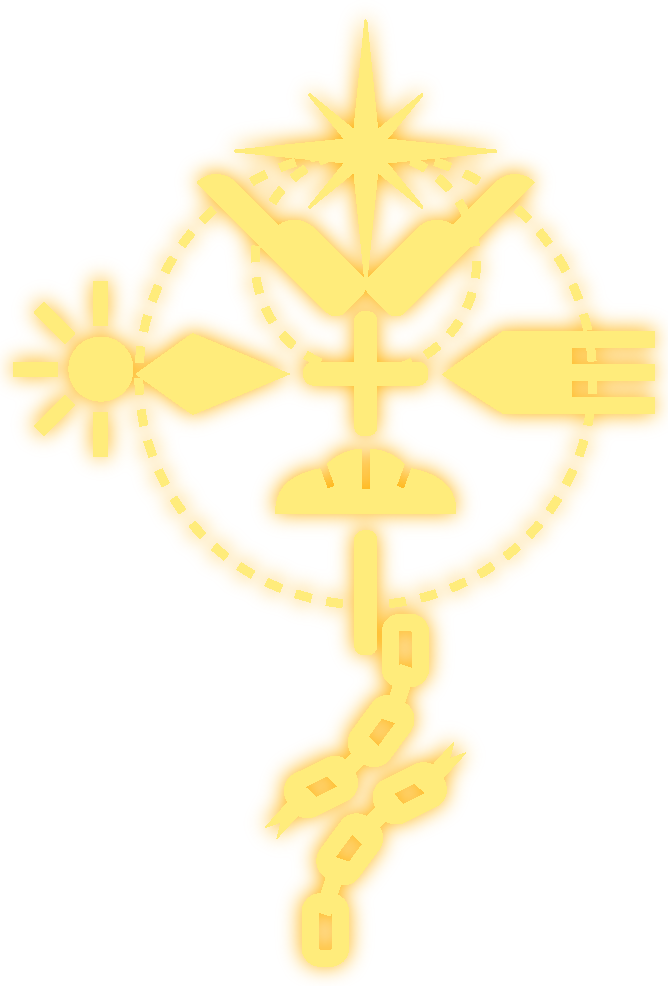
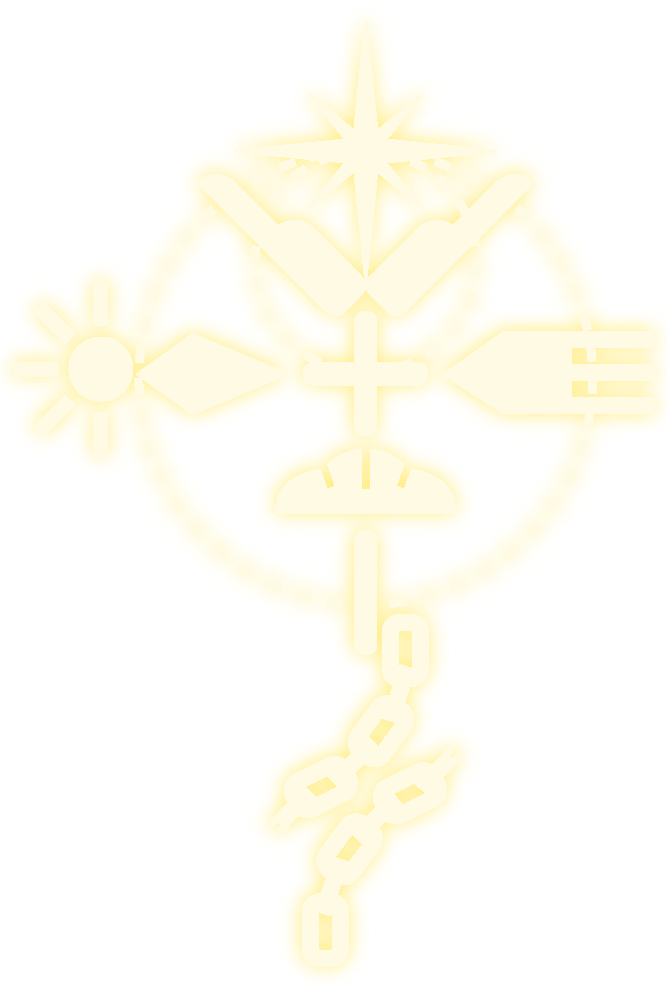
mandaracolor_logic

diff --git a/js/sketch.js b/js/sketch.js
@@ -58,10 +58,12 @@ let decorFont; // 만다라 주변 장식 텍스트용 폰트 (Tikkeul)
 let mantraImg; // 만트라 심볼 이미지 (레거시, 사용 안 함)
 let mantraImages = []; // 6개의 만다라 이미지 배열
 
-// 만다라 색상 코드 (2개만 번갈아 사용)
+// 만다라 색상 코드 (4개)
 const MANDALA_COLORS = [
-  "#fefff0", // 만다라 1 (밝은 크림색)
-  "#ffec7b", // 만다라 2 (밝은 노란색)
+  "#fefff0", // 만다라 1
+  "#fffae3", // 만다라 2
+  "#fff1ae", // 만다라 3
+  "#ffec7b", // 만다라 4
 ];
 
 // 텍스트 만다라용 패턴 정의 - 원형 패턴만 사용
@@ -142,7 +144,7 @@ let targetScale = 1.0; // 목표 스케일 값
 const SCALE_LERP_AMOUNT = 0.03; // 스케일 보간 속도 (0~1, 작을수록 부드럽게) - 더 부드럽게 (0.05 → 0.03)
 
 // 만다라 이미지 개수
-const MANTRA_IMAGE_COUNT = 2;
+const MANTRA_IMAGE_COUNT = 4;
 
 // 주기도문 텍스트 (단어별로 분리)
 const LORDS_PRAYER = [
@@ -206,8 +208,8 @@ const LORDS_PRAYER = [
 // ============================================
 
 function preload() {
-  // 2개의 만다라 PNG 이미지 로드
-  for (let i = 0; i < 2; i++) {
+  // 4개의 만다라 PNG 이미지 로드
+  for (let i = 0; i < 4; i++) {
     const imageNumber = i + 1;
     const index = i;
 
@@ -905,8 +907,8 @@ function renderVisualLayers(activeCount = 0) {
       0.2
     );
 
-    // 다음에 완성될 만다라 이미지 인덱스 미리 계산
-    let nextImageIndex = totalMantraCount % MANTRA_IMAGE_COUNT;
+    // 진행 중인 만다라는 항상 4번 이미지(인덱스 3) 사용
+    let progressImageIndex = 3; // 4번 이미지
 
     push();
     translate(width / 2, height / 2);
@@ -917,8 +919,8 @@ function renderVisualLayers(activeCount = 0) {
     push();
     translate(width / 2, height / 2);
     noFill();
-    // 진행 중인 만트라는 다음에 완성될 만다라 색상 사용
-    let progressRingColor = color(MANDALA_COLORS[nextImageIndex]);
+    // 진행 중인 만트라는 4번 이미지 색상 사용
+    let progressRingColor = color(MANDALA_COLORS[progressImageIndex]);
     stroke(
       red(progressRingColor),
       green(progressRingColor),
@@ -934,7 +936,7 @@ function renderVisualLayers(activeCount = 0) {
     for (let i = 0; i < activeCount; i++) {
       let angle = (i * TWO_PI) / activeCount - HALF_PI;
       let alpha = 255;
-      drawMantraSymbol(angle, radius, 1.0, alpha, nextImageIndex);
+      drawMantraSymbol(angle, radius, 1.0, alpha, progressImageIndex);
     }
 
     pop();
@@ -1049,9 +1051,9 @@ function displayCompletionState(activeCount = 0) {
     push();
     translate(width / 2, height / 2);
 
-    // 다음 만다라 색상
-    let nextImageIndex = totalMantraCount % MANTRA_IMAGE_COUNT;
-    let progressColor = color(MANDALA_COLORS[nextImageIndex]);
+    // 진행 중인 만다라는 항상 4번 색상
+    let progressImageIndex = 3; // 4번 이미지 색상
+    let progressColor = color(MANDALA_COLORS[progressImageIndex]);
 
     // 외곽 원 (고정) - 매우 얇고 은은하게
     noFill();
@@ -1174,8 +1176,9 @@ function displayLordsPrayer(activeCount = 0) {
     if (wordsToShow.length > 0) {
       let ringIndex = 0;
       let textRadius = baseRadius + ringIndex * ringSpacing + symbolSize * 0.3;
-      let imageIndex = totalMantraCount % MANTRA_IMAGE_COUNT;
-      let textColor = color(MANDALA_COLORS[imageIndex]);
+      // 진행 중인 만다라는 항상 4번 색상
+      let progressImageIndex = 3;
+      let textColor = color(MANDALA_COLORS[progressImageIndex]);
 
       push();
       translate(width / 2, height / 2);
@@ -1335,8 +1338,17 @@ function updateCompletionProgress() {
       currentProgress = 0;
 
       // 만트라 완성! (현재 접속자 수만큼 심볼 생성)
-      // 전체 생성 횟수 기반으로 색상 인덱스 계산 (오래된 만트라 제거되어도 순서 유지)
-      let imageIndex = totalMantraCount % MANTRA_IMAGE_COUNT; // 이미지 순환 (0-5)
+      // 완성된 만다라 색상 결정: 4→3→2→1→1→1... (가운데가 진하고 바깥으로 갈수록 연함)
+      let completedImageIndex;
+      if (totalMantraCount === 0) {
+        completedImageIndex = 2; // 첫 번째 완성 → 3번 이미지 (세 번째 진함)
+      } else if (totalMantraCount === 1) {
+        completedImageIndex = 1; // 두 번째 완성 → 2번 이미지 (두 번째 진함)
+      } else if (totalMantraCount === 2) {
+        completedImageIndex = 0; // 세 번째 완성 → 1번 이미지 (가장 연함)
+      } else {
+        completedImageIndex = 0; // 네 번째 이후 → 계속 1번 이미지 (가장 연함)
+      }
 
       // 완성된 텍스트 저장 (전체 주기도문)
       let completedWords = [];
@@ -1353,7 +1365,7 @@ function updateCompletionProgress() {
         targetScale: 1.0, // 목표 스케일
         currentScale: 0.3, // 생성 시 작은 크기에서 시작 (30%)
         symbolCount: activeCount, // 완성 당시의 접속자 수 저장
-        imageIndex: imageIndex, // 이미지 인덱스 저장 (0-5)
+        imageIndex: completedImageIndex, // 3번 이미지 인덱스 저장
         animatedRingIndex: 0, // 가장 안쪽에서 시작 (중앙에서 완성됨)
         birthOrder: totalMantraCount, // 생성 순서 (정렬용)
         isNewlyCreated: true, // 새로 생성된 만다라 표시
@@ -1364,7 +1376,7 @@ function updateCompletionProgress() {
 
       console.log(
         `✨ 만트라 완성! #${totalMantraCount} - 만다라 이미지 ${
-          imageIndex + 1
+          completedImageIndex + 1
         } 사용`
       );
 
